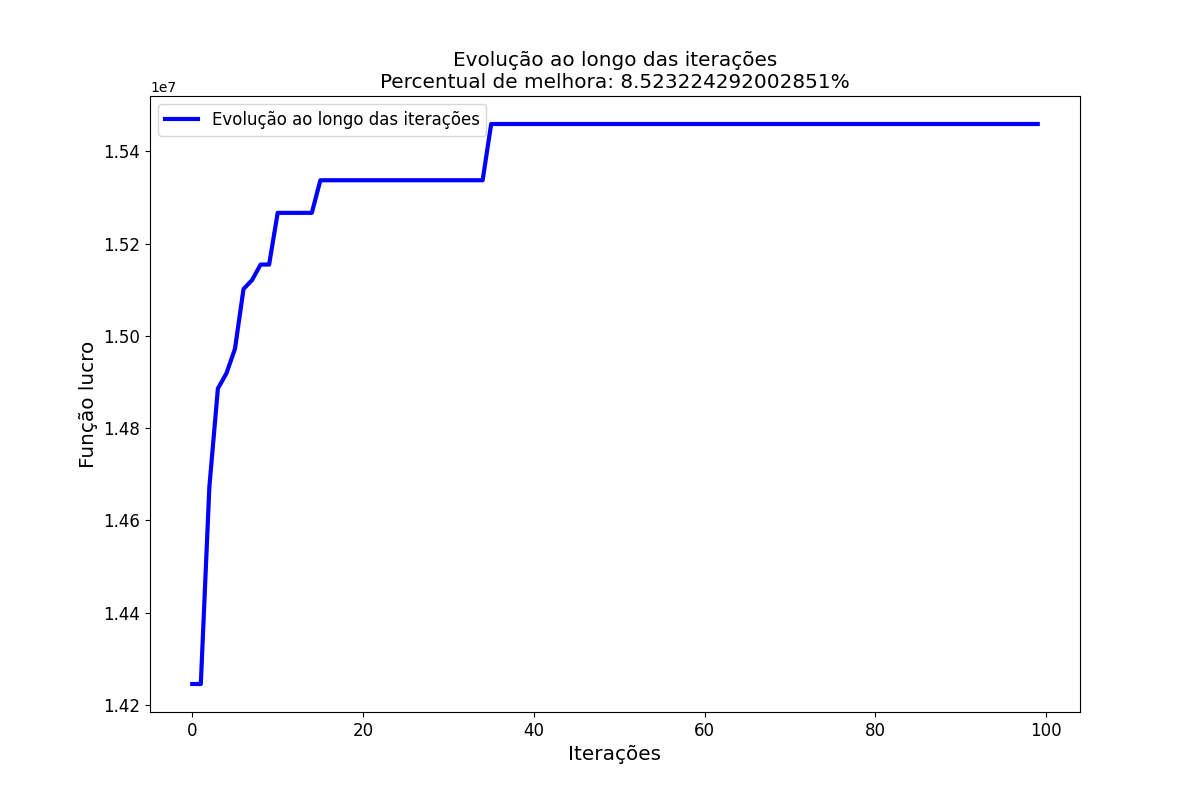
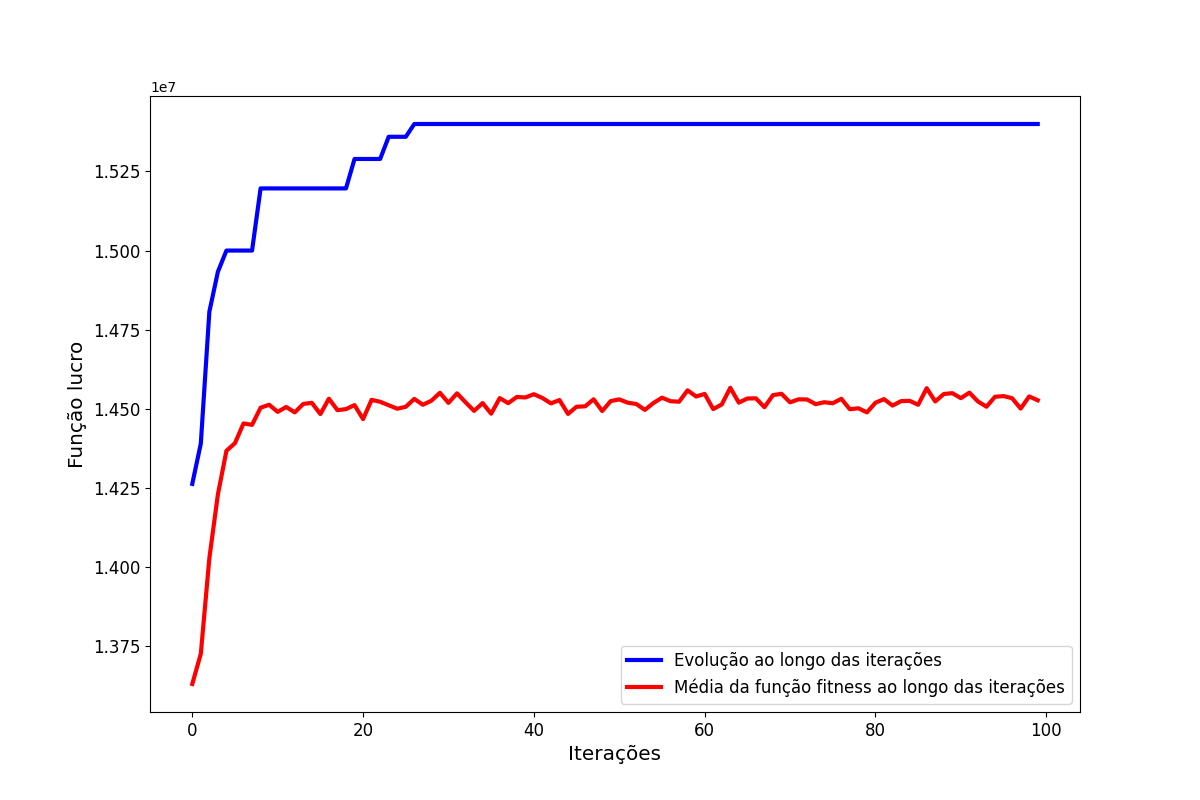
adiciona media de todas as formigas a cada iteraçao

diff --git a/antcolony.py b/antcolony.py
@@ -16,6 +16,7 @@ def antColony(nTrips, nVehicles, nWorkers, durations, depreciation, benefit):
 
   best = list
   lucros = []
+  media = []
   best_solution = []
   pairs = [[i, j] for i in range(nVehicles) for j in range(nWorkers)]
   # pairsWeight = [max([sum([benefit[j][k] - depreciation[i][j] for k in range(nTrips)]), 0]) for i in range(nWorkers) for j in range(nVehicles)]
@@ -69,6 +70,7 @@ def antColony(nTrips, nVehicles, nWorkers, durations, depreciation, benefit):
         numberVisited += 1
       solutions.append(solution)
     fitnesses = [fitness(s, pairsWeight) for s in solutions]
+    mediaAtual = sum(fitnesses) / len(fitnesses)
     visitedTripAndPairs = set()
     for solution in solutions:
       for unit in solution:
@@ -94,8 +96,10 @@ def antColony(nTrips, nVehicles, nWorkers, durations, depreciation, benefit):
       else:
         itNoBetter += 1
     it += 1
+    media.append(mediaAtual)
     lucros.append(best)
     print(f'Best fitness: {best}')
+    print(f'Média: {mediaAtual}')
 
   print('\n')
   print('Solução obtida: ')
@@ -104,6 +108,6 @@ def antColony(nTrips, nVehicles, nWorkers, durations, depreciation, benefit):
   print(f'Lucro total: {best_final}')
   improvement = (best_final / best_0) - 1
   print(f'Percentual de melhora ao longo das iterações: {improvement*100}%')
-  grafico_linha(range(100), lucros, 'lucro_total_iteracoes', improvement*100)
+  grafico_linha(range(100),media, lucros, 'lucro_total_iteracoes', improvement*100)
   return best_final
   #print(pheromony)

diff --git a/funcoes.py b/funcoes.py
@@ -1,17 +1,19 @@
 from matplotlib import pyplot as plt
 
 
-def grafico_linha(x, y, name, improvement):
+def grafico_linha(x, g, y, name, improvement):
     plt.rcParams['figure.figsize'] = [12, 8]
-    plt.plot(x, y, color='blue', label='Evolução ao longo das iterações', linewidth=3)
-    plt.title(f'Evolução ao longo das iterações\nPercentual de melhora: {improvement}%', size='x-large')
+    plt.plot(x, y, color='blue',
+             label='Evolução ao longo das iterações', linewidth=3)
+    plt.plot(x, g, color='red',
+             label='Média da função fitness ao longo das iterações', linewidth=3)
+    # plt.title(f'Evolução ao longo das iterações\nPercentual de melhora: {improvement}%', size='x-large')
     plt.xlabel('Iterações', size='x-large')
     plt.ylabel('Função lucro', size='x-large')
     plt.legend(loc='best', fontsize='large')
     plt.xticks(size='large')
     plt.yticks(size='large')
     plt.savefig(name)
-
 
 
 def objective(solucao, tripInfo):
@@ -37,4 +39,3 @@ def getFreeWorker(workers):
         if workers[w] == True:
             return w
     return None
-
